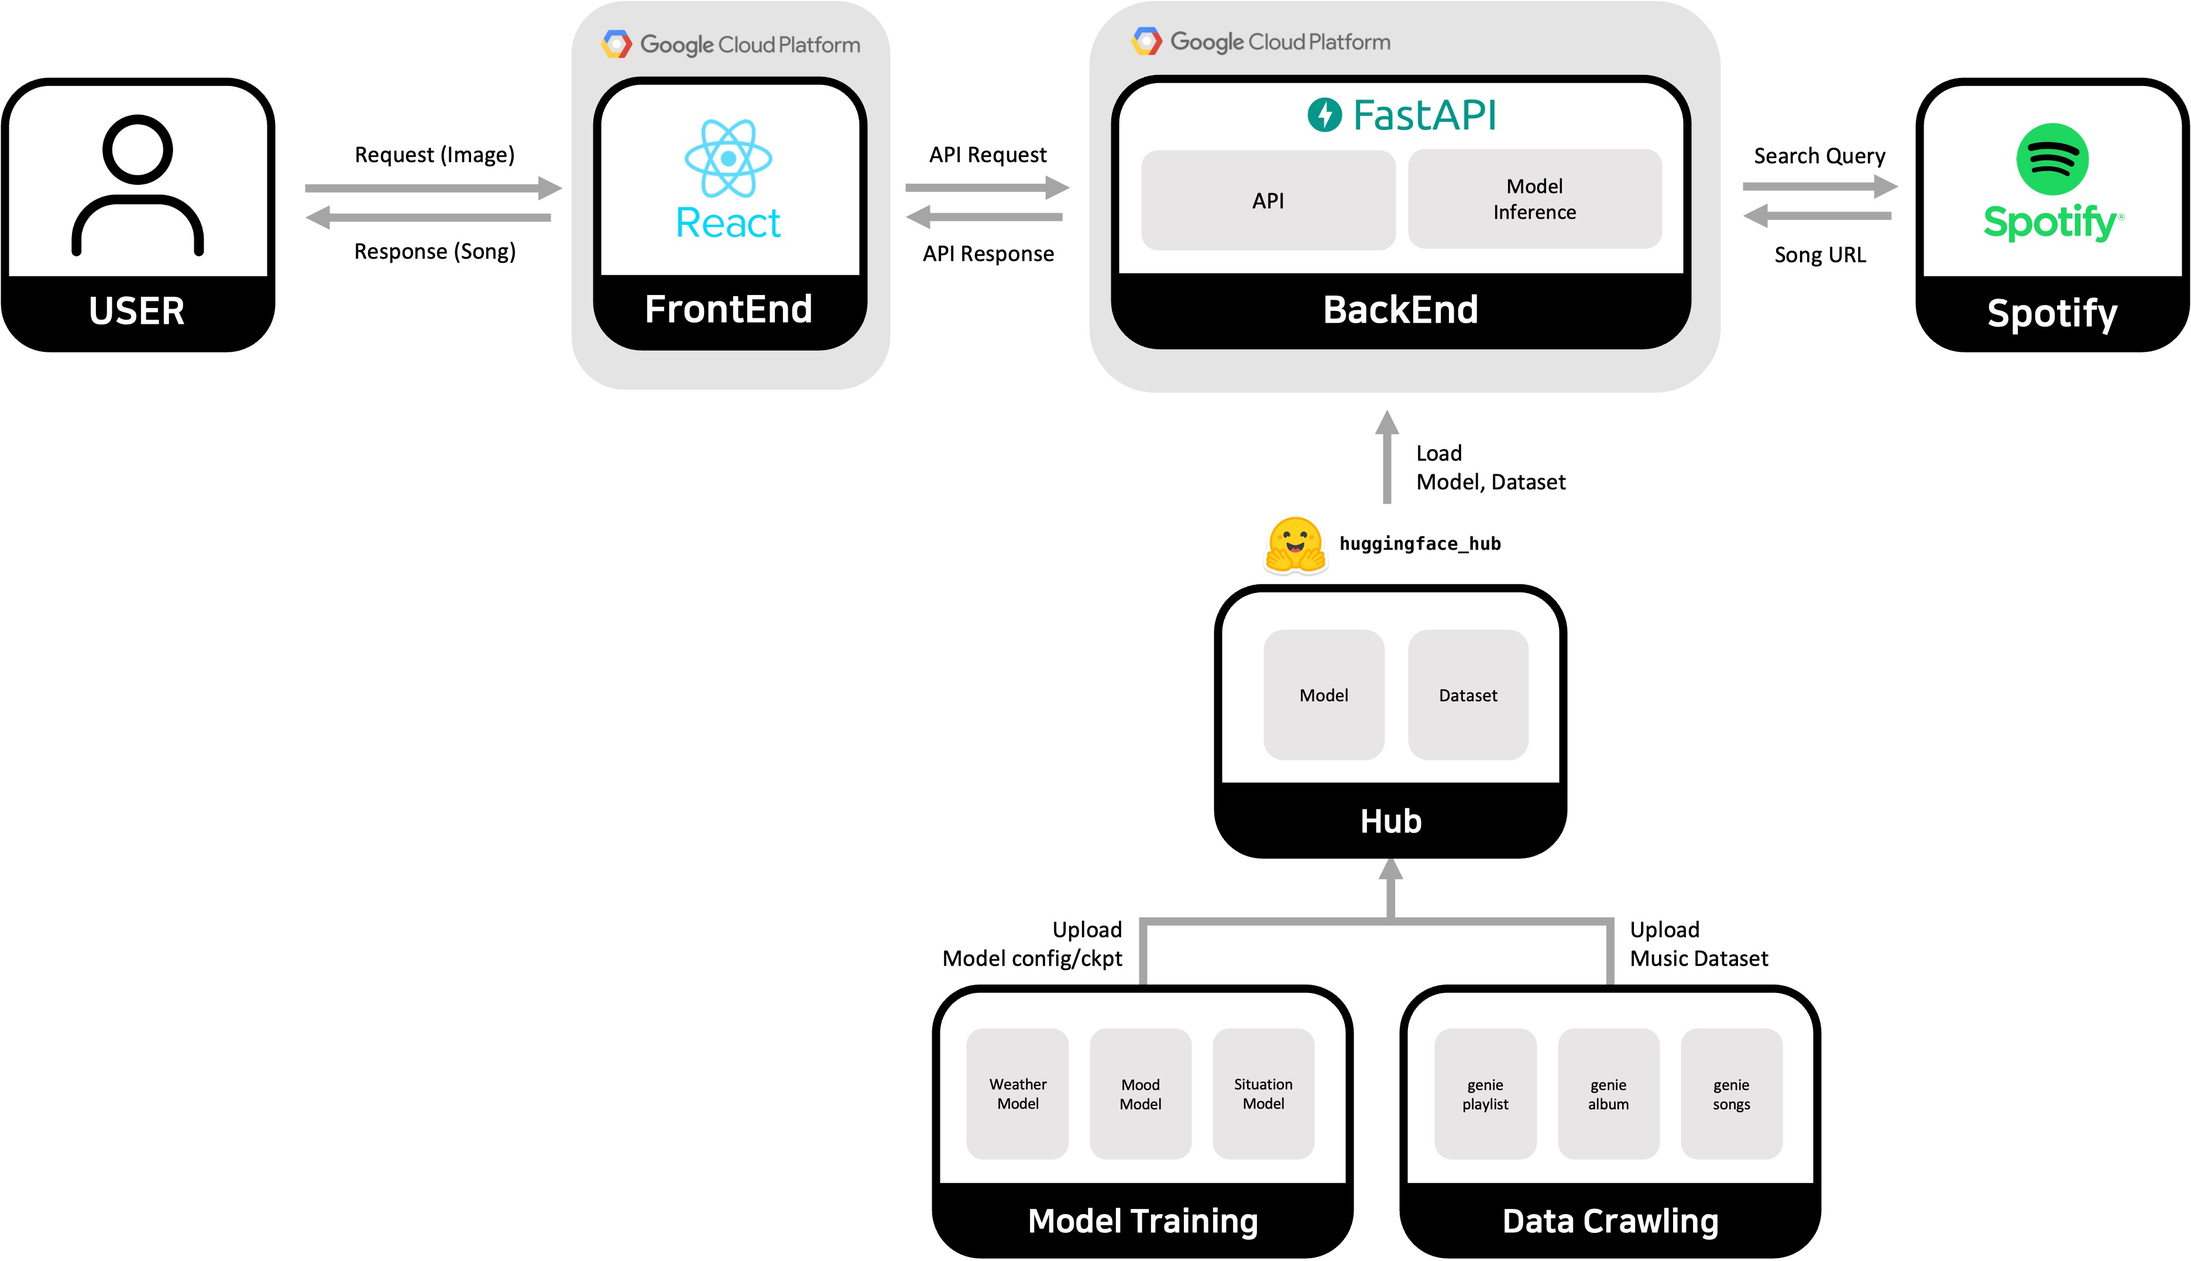
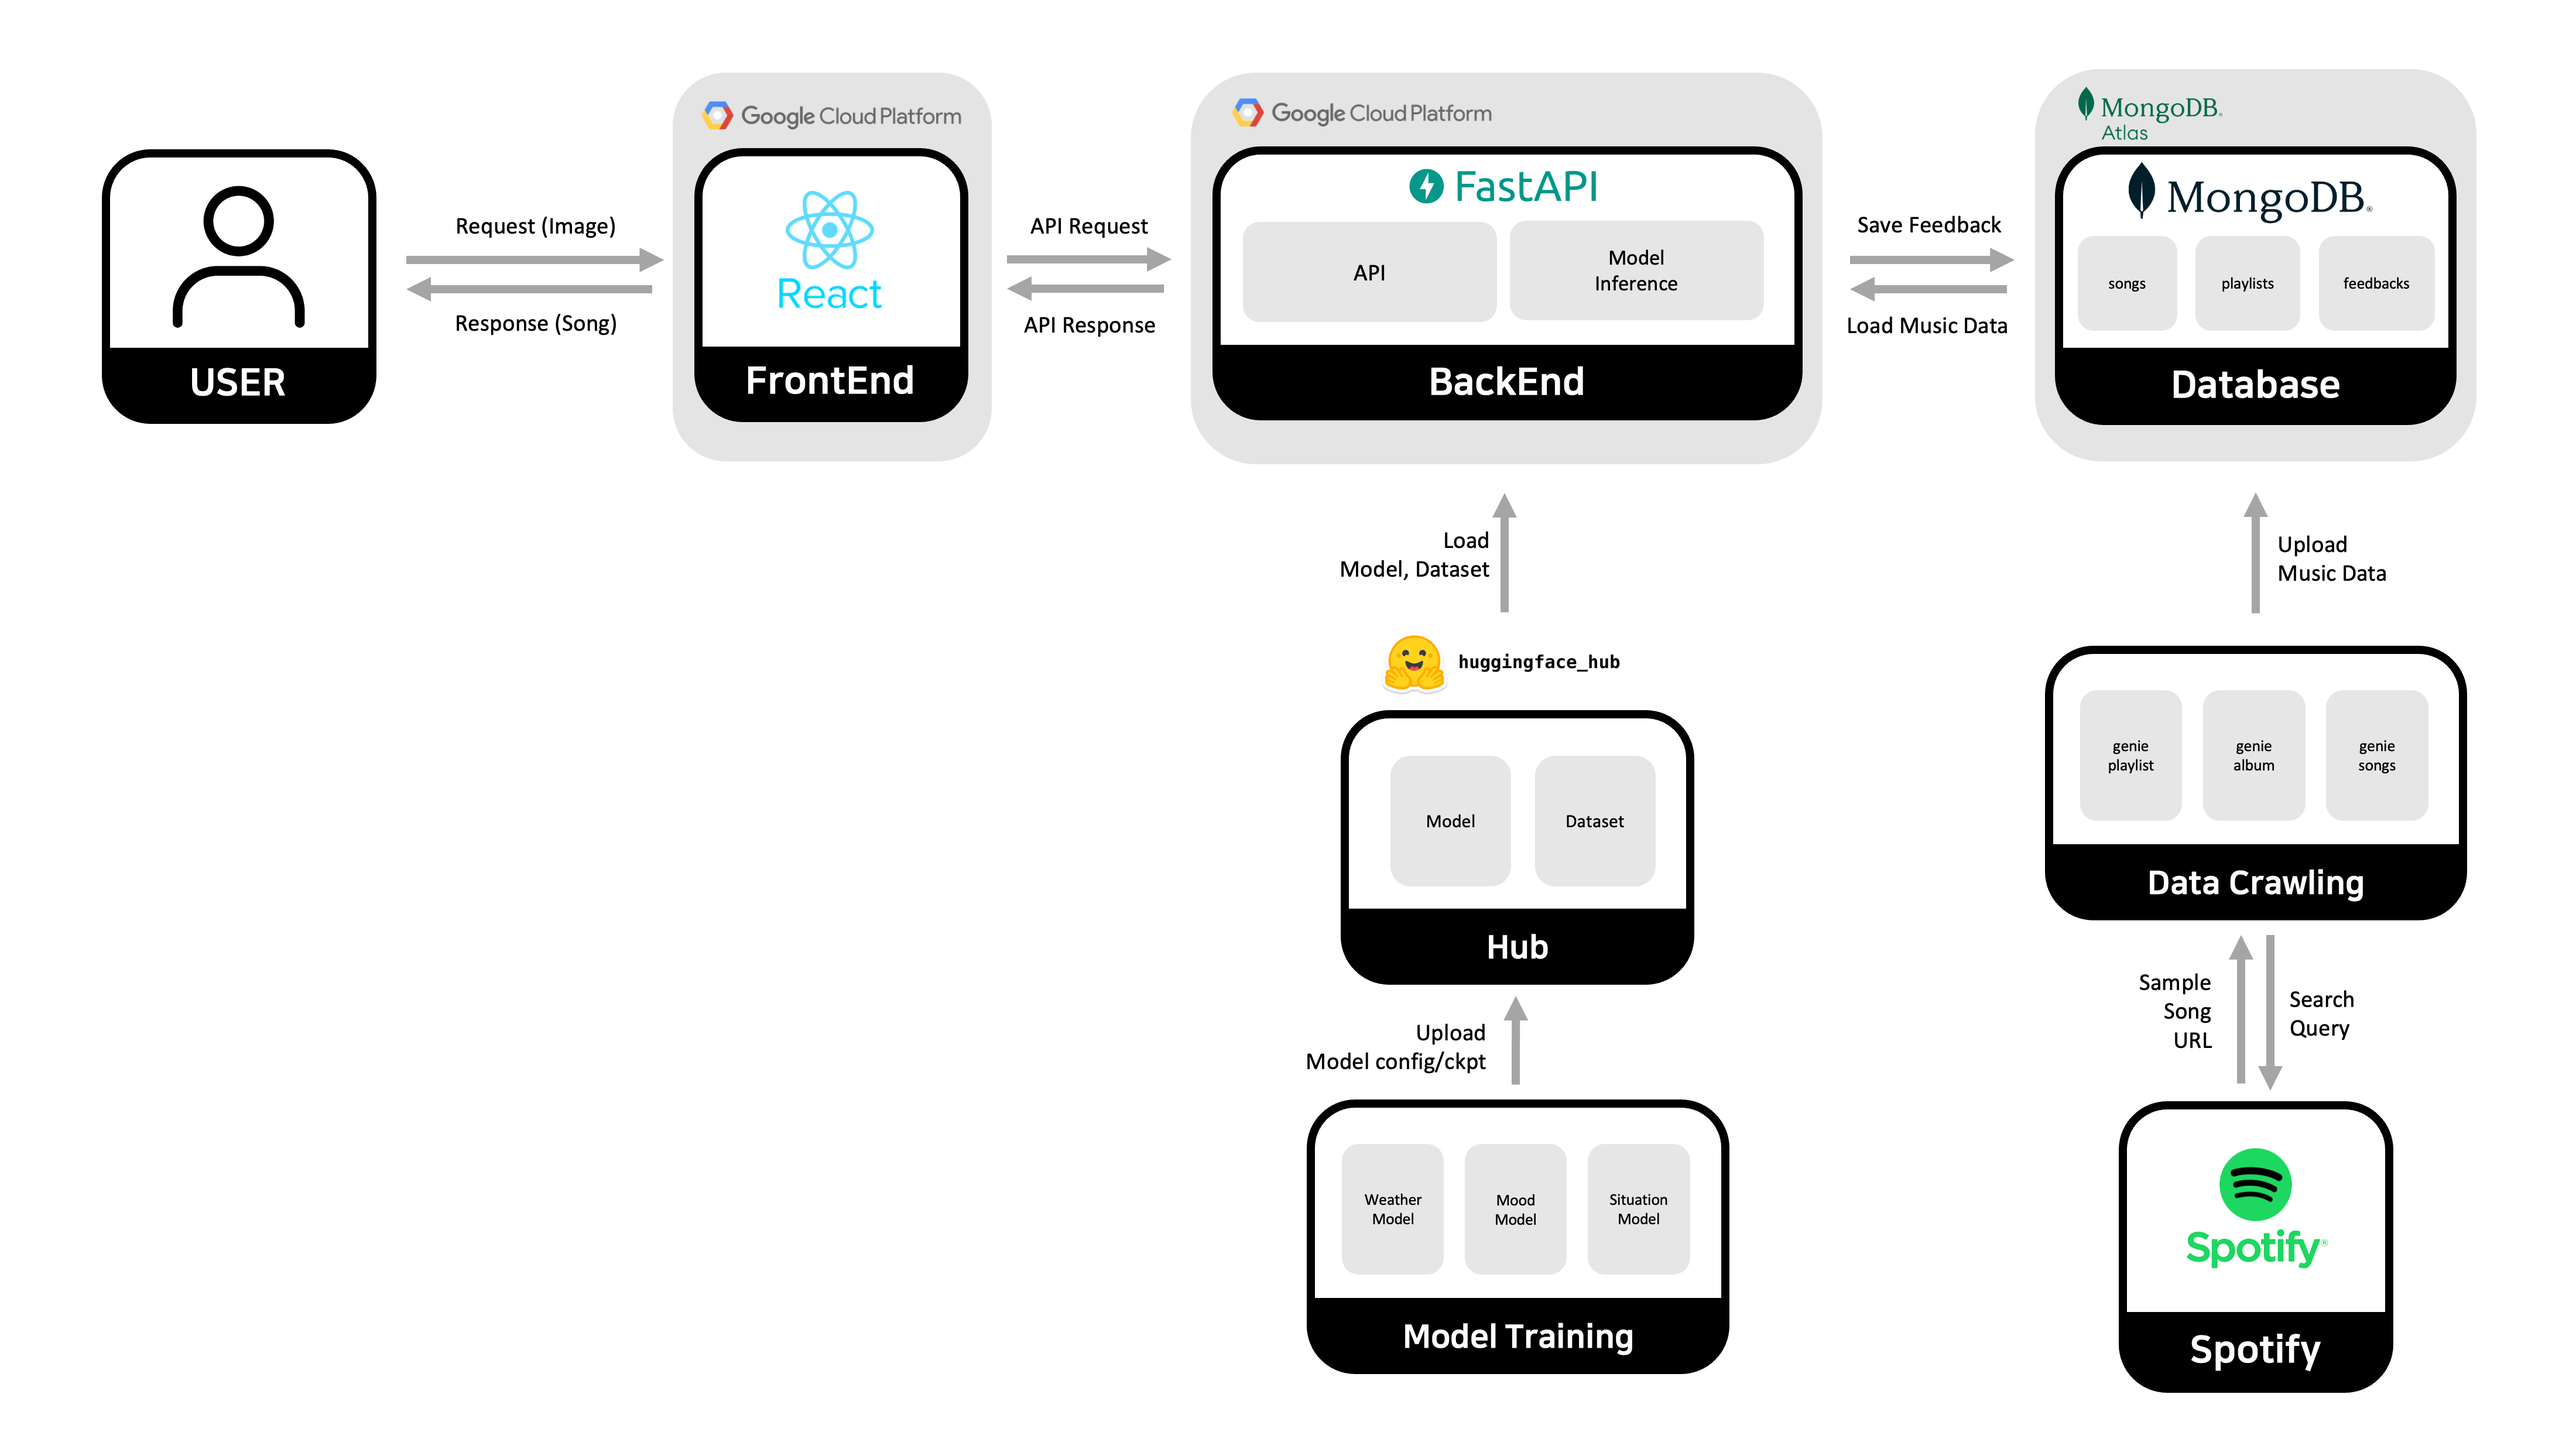
docs: update readme

Changed region(s): [[0.0, 0.0, 1.0, 1.0]]

diff --git a/README.md b/README.md
@@ -15,6 +15,7 @@
     <img src="https://img.shields.io/badge/Tesseract OCR-ea4335?style=flat-square&logo=google&logoColor=white" alt="Tesseract OCR badge">
     <img src="https://img.shields.io/badge/OpenCV-5C3EE8?style=flat-square&logo=opencv&logoColor=white" alt="OpenCV badge">
     <img src="https://img.shields.io/badge/Huggingface-FFD21E?style=flat-square&logo=huggingface&logoColor=white" alt="Huggingface badge">
+    <img src="https://img.shields.io/badge/MongoDB-47A248?style=flat-square&logo=mongodb&logoColor=white" alt="MongoDB badge">
   </p>
 </div>
 <br>
@@ -22,7 +23,7 @@
 ## 프로젝트 설명
 
 <strong>IMGenie</strong>는 일상 이미지를 기반으로 어울리는 음악을 추천해주는 서비스입니다 🎧  
-이미지를 게시하면 분위기, 상황, 날씨를 고려해 어울리는 노래를 추천해줍니다.  
+이미지를 게시하면 분위기, 상황, 날씨를 고려해 어울리는 노래를 추천해줍니다.
 
 <div align="center">
 <img width="24%" src="./docs/imgs/example1.png">
@@ -57,13 +58,14 @@ https://github.com/boostcampaitech5/level3_recsys_finalproject-recsys-03/assets/
 | :-------------------------------------: | :-----------------------------------------: | :-------------------------------------------: | :---------------------------------: | :-------------------------------------: |
 |  [강찬미](https://github.com/kCMI113)   |   [박동연](https://github.com/DyeonPark)    |    [서민석](https://github.com/alstjrdlzz)    | [이준영](https://github.com/2jun0)  |  [주혜인](https://github.com/juhyein)   |
 
-- **강찬미**: 데이터 수집, FE 구현, BE 구현
+- **강찬미**: 데이터 수집, FE 구현, BE 구현, DB 구현
 - **박동연**: 데이터 수집 및 정제, FE 구현, BE 구현
 - **서민석**: 데이터 수집 및 정제, 모델링
-- **이준영**: 데이터 수집, FE 구현, BE 구현
+- **이준영**: 데이터 수집, FE 구현, BE 구현, DB 구현
 - **주혜인**: 데이터 수집 및 정제, 모델링
 
 ## Further Reading
+
 - [시연 영상 <img src="https://www.youtube.com/favicon.ico">](https://youtu.be/mlpkmxorWVs)
 - [발표 영상 <img src="https://www.youtube.com/favicon.ico">](https://youtu.be/9VgtSRlCb9E)
 - [발표 자료](<./docs/pdfs/RecSys_3조_사진_기반_음악_추천(IMGenie).pdf>)
